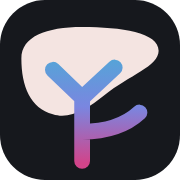
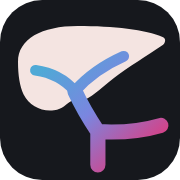
Redraw the brand mark; add wordmark lockups and a brand generator
The mark is now the portal confluence inside a liver silhouette: the SMV from
below and the splenic vein from the patient's left join, and the portal vein
climbs to the hilum and divides into curved right and left branches. Only the
vessel carries the pressure colormap. It holds at 16 px, and a one-ink version
knocks the vessels out of the liver. New lockups (horizontal light, dark and
mono; stacked) use outlined Inter, shaped with kerning, so they need no font.
scripts/brand/generate.py writes the SVGs and render-icons.mjs renders the PNG
app icons (32, 180, 192, 512, maskable).

Claude-Session: https://claude.ai/code/session_013Aew5n9gAZLKKedJNnXW8D

diff --git a/index.html b/index.html
@@ -25,9 +25,8 @@
   <!-- Icon set: 24px grid, 1.6px stroke, round caps (blueprint §5.6). -->
   <svg width="0" height="0" style="position:absolute" aria-hidden="true">
     <defs>
-      <!-- brand mark: the portal vein, colored by pressure from the gut (high) to the liver (low) -->
-      <linearGradient id="pvGrad" gradientUnits="userSpaceOnUse" x1="0" y1="29" x2="0" y2="9"><stop offset="0" stop-color="#D2448A"/><stop offset=".5" stop-color="#7A86E0"/><stop offset="1" stop-color="#4FA9D6"/></linearGradient>
-      <linearGradient id="brandGrad" x1="0" y1="1" x2="1" y2="0"><stop offset="0" stop-color="#7CC4E4"/><stop offset=".55" stop-color="#6A7FD8"/><stop offset="1" stop-color="#C0307A"/></linearGradient>
+      <!-- brand mark: the portal confluence in the liver, the vessel colored by pressure from the gut (high) to the liver (low); see scripts/brand/generate.py -->
+      <linearGradient id="pvGrad" gradientUnits="userSpaceOnUse" x1="24" y1="28" x2="9" y2="11"><stop offset="0" stop-color="#D2448A"/><stop offset=".5" stop-color="#7A86E0"/><stop offset="1" stop-color="#4FA9D6"/></linearGradient>
       <!-- tools -->
       <symbol id="i-select" viewBox="0 0 24 24"><path d="M4.6 4.2 19 10.1l-6.1 1.8-2 6.1z"/><path d="m13.2 12.3 5.3 5.3"/></symbol>
       <symbol id="i-probe" viewBox="0 0 24 24"><circle cx="12" cy="12" r="6.5"/><path d="M12 2.5v4M12 17.5v4M2.5 12h4M17.5 12h4"/><circle cx="12" cy="12" r="1.3" fill="currentColor" stroke="none"/></symbol>
@@ -99,7 +98,7 @@
   <div class="app" id="app" data-mode="explore">
     <header class="topbar">
       <a class="brand" href="./" id="brandBtn" aria-haspopup="dialog" aria-label="Portal Pressure Simulator: open Home (explore, lessons, cases, presenter)" title="Home: explore, lessons, cases, presenter">
-        <svg class="brand-mark" viewBox="0 0 32 32" aria-hidden="true"><rect width="32" height="32" rx="8" class="brand-bg"/><path d="M3.8 10.4c0-3.9 4.4-5.6 10.8-5.6 7 0 13.6 1 13.6 4.2 0 2.8-5.2 4.3-9.6 7.9-3 2.4-6.2 4.4-9.2 3.4C5.4 19.3 3.8 15.3 3.8 10.4z" fill="#F4E4E1"/><path d="M14.6 28.6V17.4M14.6 17.4l-5.2-5M14.6 17.4l5.8-5.4M14.6 23.4c3.6 0 7.4-.8 10.2-3.4" stroke="url(#pvGrad)" stroke-width="2.8" stroke-linecap="round" stroke-linejoin="round" fill="none"/></svg>
+        <svg class="brand-mark" viewBox="0 0 32 32" aria-hidden="true"><rect width="32" height="32" rx="7.5" class="brand-bg"/><path d="M3.2 11C3.2 6.9 7.4 4.6 13.8 4.6C20.2 4.6 25.9 5.2 29 6.6C29.6 6.9 29.4 7.7 28.8 8.1C26.2 9.9 22.8 11.9 20.2 13.9C18.4 15.3 16.8 16.9 15 17.8C14.2 18.2 13.5 17.6 12.8 17.9C11.6 18.5 11.2 19.4 9.6 19.6C7.4 19.9 5.2 18.8 4.2 16.8C3.5 15.3 3.2 13.3 3.2 11Z" fill="#F4E4E1"/><path d="M13.3 16.2C11.6 14.2 9.2 12.9 6.3 12.5M13.3 16.2C15.4 13.8 18.4 11.6 22 10" stroke="url(#pvGrad)" stroke-width="1.9" stroke-linecap="round" fill="none"/><path d="M17.4 29.3V23.4M28.6 22.3C24.8 23.4 20.8 23.6 17.4 23.4M17.4 23.4C15.8 21 14.6 19 13.3 16.2" stroke="url(#pvGrad)" stroke-width="2.7" stroke-linecap="round" stroke-linejoin="round" fill="none"/></svg>
         <span class="brand-text"><span class="brand-name">Portal Pressure</span><span class="brand-sub">Simulator</span></span>
       </a>
       <button class="scenario-btn" id="scenarioBtn" aria-haspopup="dialog" title="Choose a patient scenario">

diff --git a/scripts/brand/generate.py b/scripts/brand/generate.py
@@ -1,0 +1,109 @@
+"""Brand assets: the mark (the portal confluence inside a liver), its monochrome and maskable
+forms, and the wordmark lockups with outlined type.
+
+    pip install fonttools brotli uharfbuzz
+    python3 scripts/brand/generate.py        # writes brand/*.svg
+    node scripts/brand/render-icons.mjs      # renders brand/icon-*.png from them
+
+The mark is drawn on a 32-unit grid so it holds at 16 px: the superior mesenteric vein rises
+from below, the splenic vein arrives from the patient's left, and from their confluence the
+portal vein climbs obliquely to the hilum and divides into right and left branches in the
+liver. Only the vessel carries the pressure colormap (high in the gut, low in the liver).
+"""
+import io
+import re
+from pathlib import Path
+import uharfbuzz as hb
+from fontTools.ttLib import TTFont
+from fontTools.varLib.instancer import instantiateVariableFont
+from fontTools.pens.svgPathPen import SVGPathPen
+from fontTools.pens.transformPen import TransformPen
+
+ROOT = Path(__file__).resolve().parents[2]
+OUT = ROOT / 'brand'
+INTER = ROOT / 'fonts' / 'inter-latin.woff2'
+
+LIVER = ('M3.2 11C3.2 6.9 7.4 4.6 13.8 4.6C20.2 4.6 25.9 5.2 29 6.6C29.6 6.9 29.4 7.7 28.8 8.1'
+         'C26.2 9.9 22.8 11.9 20.2 13.9C18.4 15.3 16.8 16.9 15 17.8C14.2 18.2 13.5 17.6 12.8 17.9'
+         'C11.6 18.5 11.2 19.4 9.6 19.6C7.4 19.9 5.2 18.8 4.2 16.8C3.5 15.3 3.2 13.3 3.2 11Z')
+TRUNKS = 'M17.4 29.3V23.4M28.6 22.3C24.8 23.4 20.8 23.6 17.4 23.4M17.4 23.4C15.8 21 14.6 19 13.3 16.2'
+BRANCHES = 'M13.3 16.2C11.6 14.2 9.2 12.9 6.3 12.5M13.3 16.2C15.4 13.8 18.4 11.6 22 10'
+SW, SWB = 2.7, 1.9
+INK, TISSUE = '#16181D', '#F4E4E1'
+GRAD = ('<linearGradient id="{id}" gradientUnits="userSpaceOnUse" x1="24" y1="28" x2="9" y2="11">'
+        '<stop offset="0" stop-color="#D2448A"/><stop offset=".5" stop-color="#7A86E0"/><stop offset="1" stop-color="#4FA9D6"/></linearGradient>')
+
+def vessels(stroke):
+    return (f'<path d="{BRANCHES}" stroke="{stroke}" stroke-width="{SWB}" stroke-linecap="round" fill="none"/>'
+            f'<path d="{TRUNKS}" stroke="{stroke}" stroke-width="{SW}" stroke-linecap="round" stroke-linejoin="round" fill="none"/>')
+
+def mark_body(gid='pv'):
+    """The mark's artwork on its 32-unit tile, without the <svg> wrapper."""
+    return f'<rect width="32" height="32" rx="7.5" fill="{INK}"/><path d="{LIVER}" fill="{TISSUE}"/>{vessels(f"url(#{gid})")}'
+
+def mono_body(mid='m'):
+    """One ink: the vessels are knocked out of the liver (with a gap) and drawn solid outside it."""
+    knock = (f'<path d="{TRUNKS}" stroke="#000" stroke-width="{SW + 2}" stroke-linecap="round" stroke-linejoin="round" fill="none"/>'
+             f'<path d="{BRANCHES}" stroke="#000" stroke-width="{SWB + 1.6}" stroke-linecap="round" fill="none"/>')
+    return (f'<mask id="{mid}"><rect width="32" height="32" fill="#fff"/>{knock}</mask>'
+            f'<path d="{LIVER}" fill="currentColor" mask="url(#{mid})"/>{vessels("currentColor")}')
+
+def svg(view, body, title='Portal Pressure Simulator', defs=''):
+    return (f'<svg xmlns="http://www.w3.org/2000/svg" viewBox="{view}"><title>{title}</title>'
+            + (f'<defs>{defs}</defs>' if defs else '') + body + '</svg>\n')
+
+# ── Type ──
+def instance(wght):
+    f = TTFont(str(INTER)); f.flavor = None
+    inst = instantiateVariableFont(f, {'wght': wght, 'opsz': 28})
+    buf = io.BytesIO(); inst.save(buf)
+    return inst, buf.getvalue()
+
+def text_path(text, wght, size, x0, y0, tracking=0.0):
+    """Outlined text shaped by HarfBuzz (kerning included). Returns (path data, advance)."""
+    font, data = instance(wght)
+    face = hb.Face(data); hf = hb.Font(face)
+    b = hb.Buffer(); b.add_str(text); b.guess_segment_properties(); hb.shape(hf, b, {'kern': True})
+    gs, order, k = font.getGlyphSet(), font.getGlyphOrder(), size / face.upem
+    x, parts = 0, []
+    for info, pos in zip(b.glyph_infos, b.glyph_positions):
+        pen = SVGPathPen(gs)
+        gs[order[info.codepoint]].draw(TransformPen(pen, (k, 0, 0, -k, x0 + (x + pos.x_offset) * k, y0 - pos.y_offset * k)))
+        parts.append(pen.getCommands())
+        x += pos.x_advance + tracking * face.upem
+    d = ' '.join(p for p in parts if p)
+    d = re.sub(r'-?\d+\.\d+', lambda m: f'{float(m.group()):.2f}'.rstrip('0').rstrip('.'), d)
+    return d, x * k
+
+def main():
+    OUT.mkdir(exist_ok=True)
+    (OUT / 'mark.svg').write_text(svg('0 0 32 32', mark_body(), defs=GRAD.format(id='pv')))
+    (OUT / 'mark-mono.svg').write_text(svg('0 0 32 32', mono_body()))
+    # Maskable app icon: full-bleed ink, the artwork inside the 80 % safe zone.
+    art = f'<path d="{LIVER}" fill="{TISSUE}"/>{vessels("url(#pv)")}'
+    (OUT / 'mark-maskable.svg').write_text(svg('0 0 32 32', f'<rect width="32" height="32" fill="{INK}"/><g transform="translate(16 16) scale(.72) translate(-16 -16)">{art}</g>', defs=GRAD.format(id='pv')))
+
+    # Horizontal lockup: mark, then the name on one line (sales page, SCORM package).
+    name, w1 = text_path('Portal Pressure', 650, 22, 52, 31, -0.012)
+    sub, w2 = text_path('Simulator', 430, 22, 52 + w1 + 7, 31, -0.008)
+    W = round(52 + w1 + 7 + w2 + 2)
+    body = f'<g transform="translate(0 4) scale(1.25)">{mark_body()}</g><path d="{name}" fill="{INK}"/><path d="{sub}" fill="#5B5F6A"/>'
+    (OUT / 'lockup.svg').write_text(svg(f'0 0 {W} 48', body, defs=GRAD.format(id='pv')))
+    body_d = f'<g transform="translate(0 4) scale(1.25)">{mark_body()}</g><path d="{name}" fill="#E9EDF6"/><path d="{sub}" fill="#A9B2C7"/>'
+    (OUT / 'lockup-dark.svg').write_text(svg(f'0 0 {W} 48', body_d, defs=GRAD.format(id='pv')))
+    body_m = f'<g transform="translate(0 4) scale(1.25)" color="#16181D">{mono_body()}</g><path d="{name}" fill="#16181D"/><path d="{sub}" fill="#16181D"/>'
+    (OUT / 'lockup-mono.svg').write_text(svg(f'0 0 {W} 48', body_m))
+
+    # Stacked lockup (printed debriefs, title slides): mark above a two-line name.
+    n2, a = text_path('Portal Pressure', 650, 26, 0, 0, -0.012)
+    s2, b2 = text_path('Simulator', 430, 26, 0, 0, -0.008)
+    Wst = round(max(a, b2)) + 4
+    cx = Wst / 2
+    n2, _ = text_path('Portal Pressure', 650, 26, cx - a / 2, 104, -0.012)
+    s2, _ = text_path('Simulator', 430, 26, cx - b2 / 2, 136, -0.008)
+    body_s = f'<g transform="translate({cx - 32:.1f} 0) scale(2)">{mark_body()}</g><path d="{n2}" fill="{INK}"/><path d="{s2}" fill="#5B5F6A"/>'
+    (OUT / 'lockup-stacked.svg').write_text(svg(f'0 0 {Wst} 146', body_s, defs=GRAD.format(id='pv')))
+    print('brand/*.svg written')
+
+if __name__ == '__main__':
+    main()
